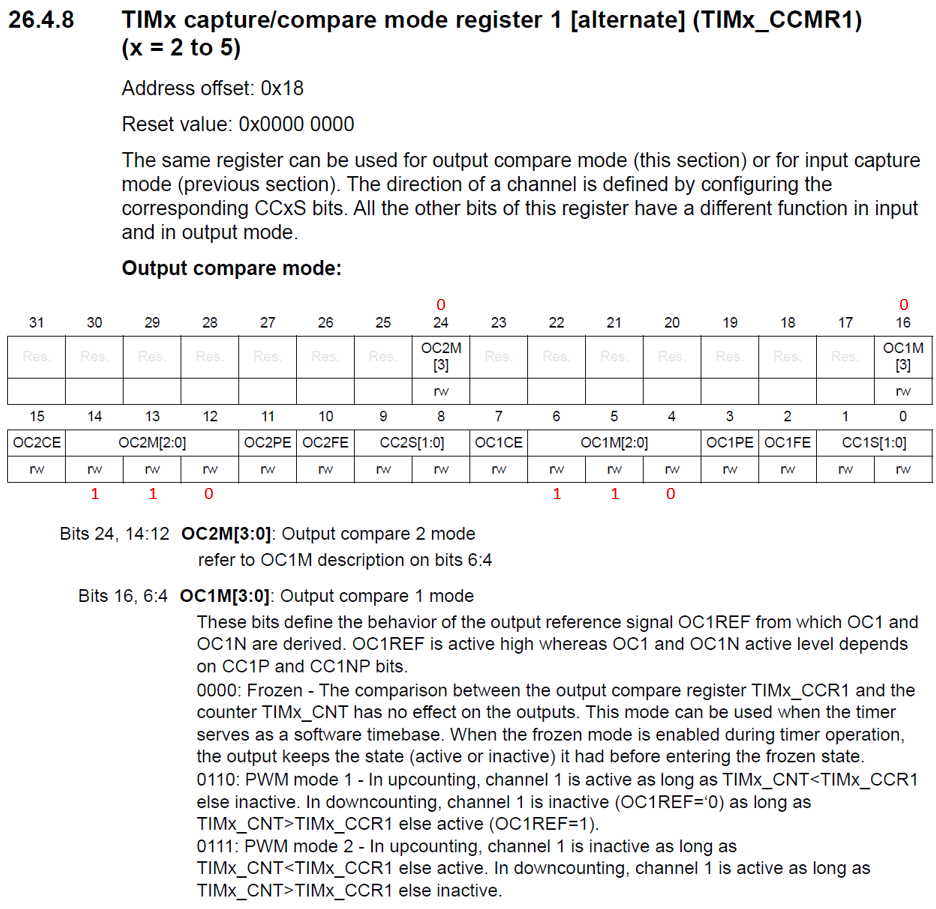
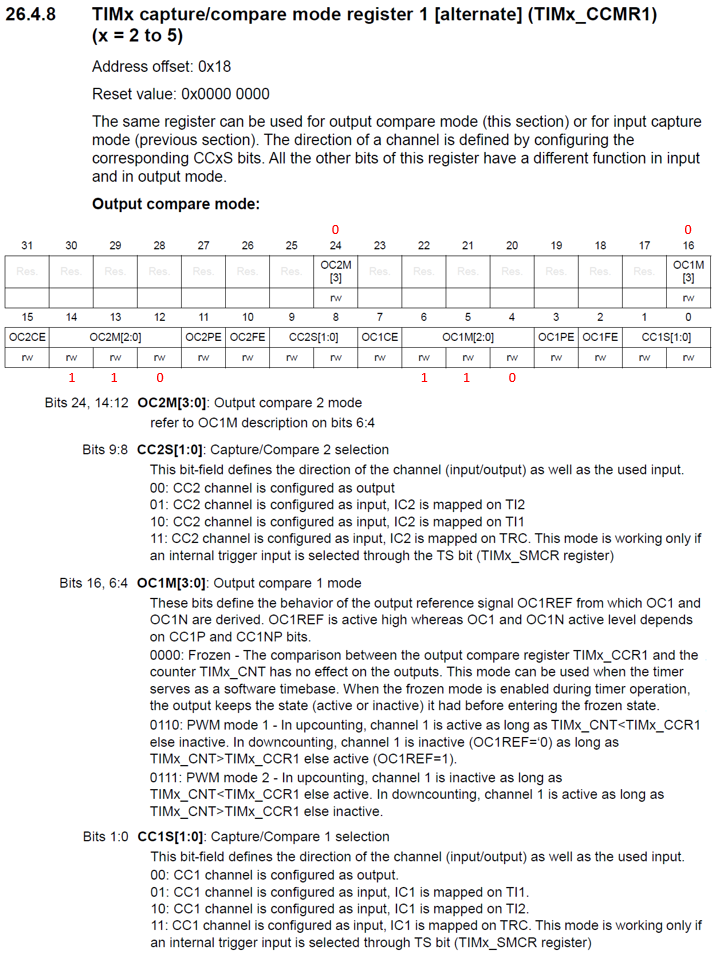
PWM introduction and CCMR1 and CCER registers update

Changed region(s): [[0.0, 0.0, 1.0, 1.0], [0.0, 0.0, 0.0918, 0.0308]]

diff --git a/Aula22/README.md b/Aula22/README.md
@@ -218,6 +218,12 @@ int main(){
 </div>
 
 <div align="center">
+<img src="image-12.png" alt="TIMX_CR1"/>
+<br>
+<figcaption>Fuente: Manual de referencia</figcaption>
+</div>
+
+<div align="center">
 <img src="image-4.png" alt="TIMX_CCMR1"/>
 <br>
 <figcaption>Fuente: Manual de referencia</figcaption>
